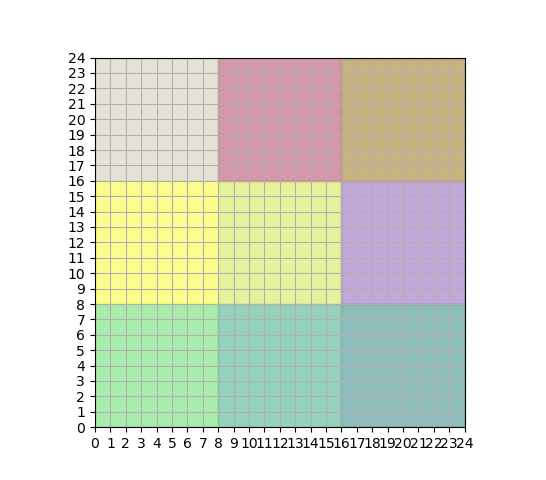
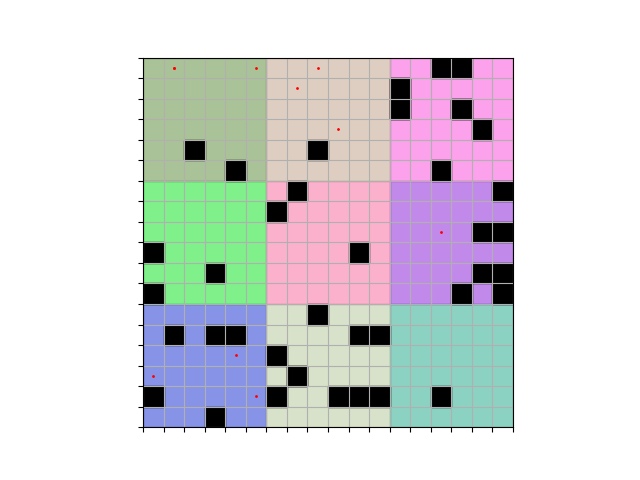
environment initialization finished

diff --git a/env/grids.py b/env/grids.py
@@ -4,9 +4,10 @@ import random
 import math
 import matplotlib.pyplot as plt
 
+
 # base class for environment
 
-class Env():
+class baseEnv():
 
     def __init__(self):
         pass
@@ -17,11 +18,11 @@ class Env():
     def step(self, action):
         pass
 
-    def render(self):
+    def vis(self):
         pass
 
 # extended class for grid world
-class gridWorld(Env):
+class gridWorld(baseEnv):
 
     def __init__(self,params):
         super().__init__()
@@ -32,37 +33,68 @@ class gridWorld(Env):
         self.subgroup_x_index = np.linspace(0,params['grid_size']['x'],params['sub_groups']['side_division']+1,dtype=int)
         self.subgroup_y_index = np.linspace(0,params['grid_size']['y'],params['sub_groups']['side_division']+1,dtype=int)
         
-        #visualize the grid
-        self.fig = plt.figure()
-        self.ax = self.fig.add_subplot(111)
-        self.ax.set_xticks(np.arange(0,params['grid_size']['x']+1,1))
-        self.ax.set_yticks(np.arange(0,params['grid_size']['y']+1,1))
-        self.ax.grid(True)
-        self.ax.set_xlim(0,params['grid_size']['x'])
-        self.ax.set_ylim(0,params['grid_size']['y'])
-        # add different color for different subgroups
-        for i in range(params['sub_groups']['side_division']):
-            for j in range(params['sub_groups']['side_division']):
-                self.ax.add_patch(plt.Rectangle((self.subgroup_x_index[i],self.subgroup_y_index[j]),
-                                                self.subgroup_x_index[i+1]-self.subgroup_x_index[i],self.subgroup_y_index[j+1]-self.subgroup_y_index[j],
-                                                fill=True,color=np.random.rand(3,1).flatten(),alpha=0.5))
-                # make the patch a square
-                self.ax.set_aspect('equal')
-                
-                
-        plt.show()
-        # save the figure
-        self.fig.savefig('grid.png')
-        
-
         
 
         # randomly initialize targets position
+        
+        
+        # assign obstacles to each subgroup
+        self.obstacles = []
+        for i in range(self.params['sub_groups']['side_division']):
+            for j in range(self.params['sub_groups']['side_division']):
+                num_obstacles = random.randint(0,params['obstacles']['max_num'])
+                for k in range(num_obstacles):
+                    self.obstacles.append([random.randint(self.subgroup_x_index[i],self.subgroup_x_index[i+1]-1),
+                                        random.randint(self.subgroup_y_index[j],self.subgroup_y_index[j+1]-1)])
+                    self.grid[self.obstacles[-1][0],self.obstacles[-1][1],0] = 1
+
         self.targets = []
         for i in range(params['num_targets']):
-            self.targets.append([random.randint(0,params['grid_size']['x']-1),random.randint(0,params['grid_size']['y']-1)])
-            self.grid[self.targets[i][0],self.targets[i][1],2] = 1
+            # randomly generate a target position that is not occupied by obstacles
+            while True:
+                position = [random.randint(0,params['grid_size']['x']-1),random.randint(0,params['grid_size']['y']-1)]
+                if self.grid[position[0],position[1],0] == 0:
+                    break
+            self.targets.append(position)
+            self.grid[self.targets[-1][0],self.targets[-1][1],2] = 1
+        
+        self.vis()
+
+
+    def vis(self,filename=None):
+        #visualize the grid
+        self.fig = plt.figure()
+        self.ax = self.fig.add_subplot(111)
+        self.ax.set_xticks(np.arange(0,self.params['grid_size']['x']+1,1))
+        self.ax.set_yticks(np.arange(0,self.params['grid_size']['y']+1,1))
+        self.ax.set_xticklabels([])
+        self.ax.set_yticklabels([])
+        self.ax.grid(True)
+        self.ax.set_xlim(0,self.params['grid_size']['x'])
+        self.ax.set_ylim(0,self.params['grid_size']['y'])
+        self.ax.set_aspect('equal')
+        
+        # add different color for different subgroups
+        for i in range(self.params['sub_groups']['side_division']):
+            for j in range(self.params['sub_groups']['side_division']):
+                self.ax.add_patch(plt.Rectangle((self.subgroup_x_index[i],self.subgroup_y_index[j]),
+                                                self.subgroup_x_index[i+1]-self.subgroup_x_index[i],self.subgroup_y_index[j+1]-self.subgroup_y_index[j],
+                                                fill=True,color=np.random.rand(3,1).flatten(),alpha=0.5))
+                
+        # indicate the targets with red dots
+        for target in self.targets:
+            self.ax.plot(target[0]+0.5,target[1]+0.5,'ro',markersize=1)
+        
+        # indicate the obstacles with black blocks
+        for obstacle in self.obstacles:
+            self.ax.add_patch(plt.Rectangle((obstacle[0],obstacle[1]),1,1,fill=True,color='k'))
+
+        # save the figure
+        if filename is not None:
+            self.fig.savefig(filename)
+        else:
+            self.fig.savefig('grid.png')
 
 
 
-instance=gridWorld({'grid_size':{'x':24,'y':24},'num_targets':5,'sub_groups':{'side_division':3}})
+

diff --git a/model/GAT.py b/model/GAT.py
@@ -1,0 +1,65 @@
+# implement a graph attention network using pytorch geometric, used for generating node features
+
+import torch
+import torch.nn as nn
+import torch.nn.functional as F
+from torch_geometric.nn import GATConv
+import networkx as nx
+import matplotlib.pyplot as plt
+
+class GAT(nn.Module):
+    def __init__(self, in_dim, hidden_dim, out_dim, num_heads, dropout, alpha):
+        super(GAT, self).__init__()
+        self.conv1 = GATConv(in_dim, hidden_dim, heads=num_heads, dropout=dropout)
+        self.conv2 = GATConv(hidden_dim * num_heads, out_dim, dropout=dropout)
+
+    def forward(self, x, edge_index):
+        print(x)
+        x = self.conv1(x, edge_index)
+        x = F.elu(x)
+        x = self.conv2(x, edge_index)
+        return x
+
+# testing the code
+if __name__ == '__main__':
+
+    model=GAT(1, 10, 1, 10, 0.5, 0.2)
+    
+    #initialize the node features
+    x = torch.randn(10, 1)
+    #initialize the edge index
+    edge_index = torch.tensor([[0, 1, 1, 2, 3, 4, 5, 6, 7, 8],
+                                 [1, 0, 2, 1, 4, 3, 6, 5, 8, 7]], dtype=torch.long)
+
+    # visualize the graph with nodes and edges, using networkx and matplotlib
+    # showing node features
+    
+    G = nx.Graph()
+    G.add_nodes_from([0, 1, 2, 3, 4, 5, 6, 7, 8])
+    G.add_edges_from([(0, 1), (1, 2), (2, 3), (3, 4), (4, 5),
+                        (5, 6), (6, 7), (7, 8), (8, 0)])
+    # label it with node features
+    node_labels = {0: x[0][0], 1: x[1][0], 2: x[2][0], 3: x[3][0], 4: x[4][0],
+                    5: x[5][0], 6: x[6][0], 7: x[7][0], 8: x[8][0]}
+    nx.set_node_attributes(G, node_labels, 'node_features')
+    # visualize the graph
+    nx.draw(G, with_labels=True, font_weight='bold',labels=node_labels)
+    # save figure
+    plt.savefig('graph.png')
+    plt.clf()
+    out = model(x, edge_index)
+
+    G = nx.Graph()
+    G.add_nodes_from([0, 1, 2, 3, 4, 5, 6, 7, 8])
+    G.add_edges_from([(0, 1), (1, 2), (2, 3), (3, 4), (4, 5),
+                        (5, 6), (6, 7), (7, 8), (8, 0)])
+    # label it with node features
+    node_labels = {0: x[0][0], 1: x[1][0], 2: x[2][0], 3: x[3][0], 4: x[4][0],
+                    5: x[5][0], 6: x[6][0], 7: x[7][0], 8: x[8][0]}
+    print(node_labels)
+    nx.set_node_attributes(G, node_labels, 'node_features')
+    # visualize the graph with node_features
+    nx.draw(G, with_labels=True, font_weight='bold',labels=node_labels)
+    # save figure
+    plt.savefig('graph_out.png')
+

diff --git a/main.py b/main.py
@@ -1,0 +1,11 @@
+import env.grids
+import yaml
+
+# read configs from yaml file
+
+configs=yaml.load(open('config/test.yaml','r'),Loader=yaml.FullLoader)
+
+# create environment
+instance = env.grids.gridWorld(configs['env'])
+
+
